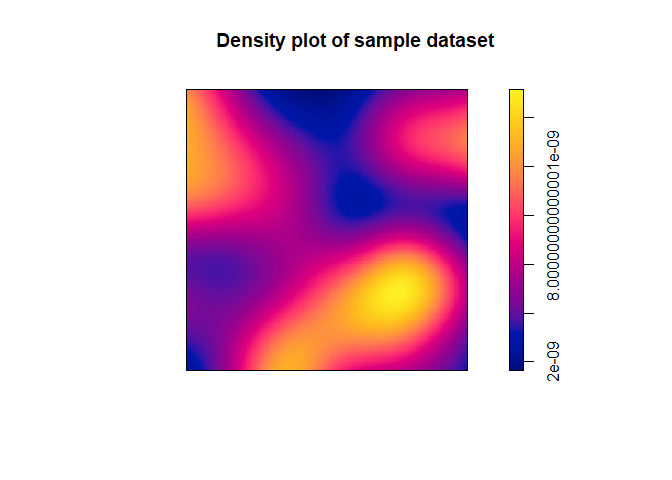
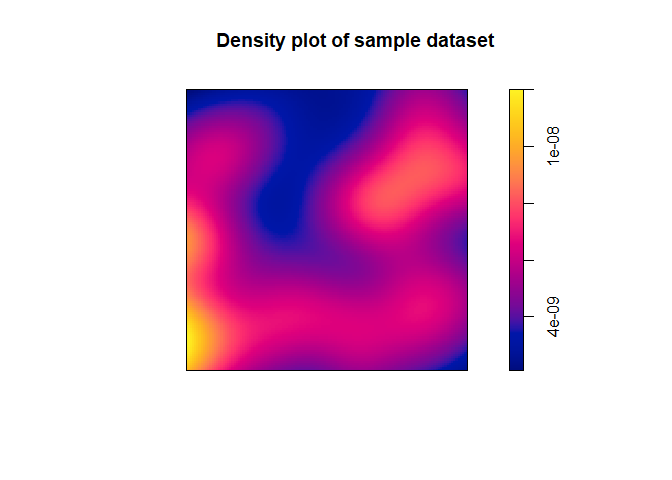
KDE update

Changed region(s): [[0.2812, 0.1875, 0.7188, 0.7812], [0.8125, 0.25, 0.8438, 0.8125]]

diff --git a/KDE.md b/KDE.md
@@ -6,9 +6,12 @@ Anthony Caravaggi
 Libraries
 
 ``` r
+library(maps)
+library(mapdata)
+library(maptools)
+library(raster)
 library(sp)
 library(spatstat)
-library(raster)
 ```
 
 Create SpatialPolygon object of ~ 200 km^2.
@@ -37,12 +40,12 @@ head(detections)
 ```
 
     ##   count         x        y
-    ## 1     2 -26521604 17317099
-    ## 2     5 -26689755 17493429
-    ## 3     6 -26619405 17337213
-    ## 4     1 -26582433 17456836
-    ## 5     3 -26547243 17368757
-    ## 6     3 -26548105 17330645
+    ## 1     8 -26628103 17352299
+    ## 2     0 -26513505 17409815
+    ## 3     3 -26554372 17467457
+    ## 4     1 -26535916 17371097
+    ## 5     3 -26548571 17352406
+    ## 6     5 -26538241 17464423
 
 Duplicate rows according to count values, preserving coordinate columns.
 
@@ -52,12 +55,12 @@ head(det.all)
 ```
 
     ##             x        y
-    ## 1   -26521604 17317099
-    ## 1.1 -26521604 17317099
-    ## 2   -26689755 17493429
-    ## 2.1 -26689755 17493429
-    ## 2.2 -26689755 17493429
-    ## 2.3 -26689755 17493429
+    ## 1   -26628103 17352299
+    ## 1.1 -26628103 17352299
+    ## 1.2 -26628103 17352299
+    ## 1.3 -26628103 17352299
+    ## 1.4 -26628103 17352299
+    ## 1.5 -26628103 17352299
 
 Create a point pattern dataset and apply the kernel density function. We'll get a duplication warning, but we're expecting that based on the previous step.
 
@@ -119,3 +122,91 @@ plot(sp.dens_r3)
 ```
 
 ![](KDE_files/figure-markdown_github/unnamed-chunk-9-1.png)
+
+### KDEs within `map` objects
+
+Objects from the `maps` package need to be converted to a SpatialPolygon prior to being coerced to a `owin` object as required by the `ppp` function. First, we're going to extract a map object. I'm choosing Malawi, because why not.
+
+``` r
+cmot <- map(database = 'world',
+    regions = "malawi",
+    fill = T,
+    col = 'grey',
+    resolution = 0,
+    bg = 'white'
+)
+```
+
+![](KDE_files/figure-markdown_github/unnamed-chunk-10-1.png)
+
+We then have to convert the map object to a SpatialPolygon. To do this, we extract the country name and use it as an identifer in the converstion, thus producing a continuous polygon.
+
+``` r
+IDs <- sapply(strsplit(cmot$names, ":"), function(x) x[1])
+dib <- map2SpatialPolygons(cmot, IDs=IDs, proj4string=CRS("+proj=longlat +datum=WGS84"))
+```
+
+Then we generate our samples, as before.
+
+``` r
+pts <- spsample(dib,n=250,type="random")
+plot(dib)
+plot(pts, add = TRUE)
+```
+
+![](KDE_files/figure-markdown_github/unnamed-chunk-12-1.png)
+
+We create a dataframe containing the x and y coordinates of each point, as well as the number of individuals at each. My simulated data represent one individual per observation. If you have more than one observation per record, duplicate rows, as above.
+
+``` r
+detections <- data.frame(count = 1, pts@coords)
+```
+
+The `ppp` function requires an `owin` object to serve as the boundary for the KDE. You cannot pass a `map` object or converted map object to owin, directly, it has to be converted.
+
+``` r
+mass.owin <- as.owin.SpatialPolygons(dib)
+```
+
+Then we create the Point Pattern Process file and run the density function.
+
+``` r
+cam.ppd <- ppp(detections$x, detections$y, window = owin(mass.owin))
+bler <- density(cam.ppd)
+plot(bler)
+```
+
+![](KDE_files/figure-markdown_github/unnamed-chunk-15-1.png)
+
+We can use the rescale functions defined above to create specific bands across the KDE. First, convert the density plot to a raster and apply thresholds for contextual visualisation.
+
+``` r
+bler_r <- raster(bler)
+```
+
+Rescale cell values between 0 and 1.
+
+``` r
+rasterRescale<-function(r){
+  ((r-cellStats(r,"min"))/(cellStats(r,"max")-cellStats(r,"min")))
+}
+
+bler_r2 <- rasterRescale(bler_r)
+```
+
+Apply threshold by setting values below a given value to 0. We want three different bands, 95%, 50% and 10%. For this, we need to set values below the given thresholds to 0
+
+``` r
+kde_95 <- bler_r2
+kde_50 <- bler_r2
+kde_10 <- bler_r2
+
+kde_95[kde_95<0.95]=NA
+kde_50[kde_50<0.50]=NA
+kde_10[kde_10<0.10]=NA
+plot(kde_10, col="yellow", legend=F)
+plot(kde_50, col="orange", legend=F, add=T)
+plot(kde_95, col="red", legend=F, add=T)
+```
+
+![](KDE_files/figure-markdown_github/unnamed-chunk-18-1.png)
